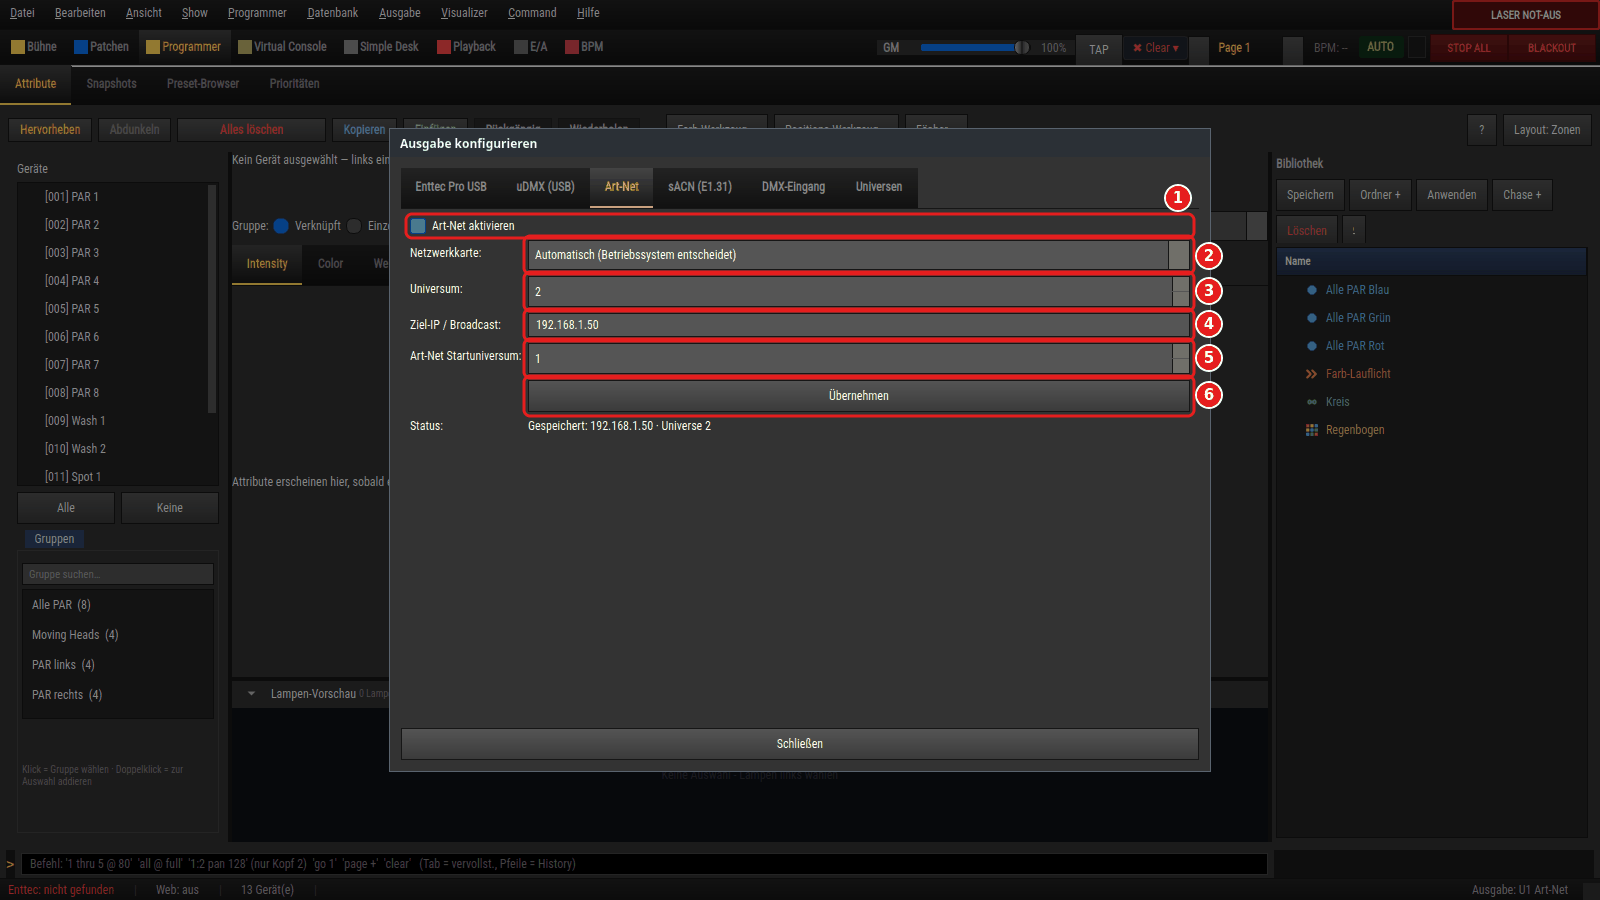
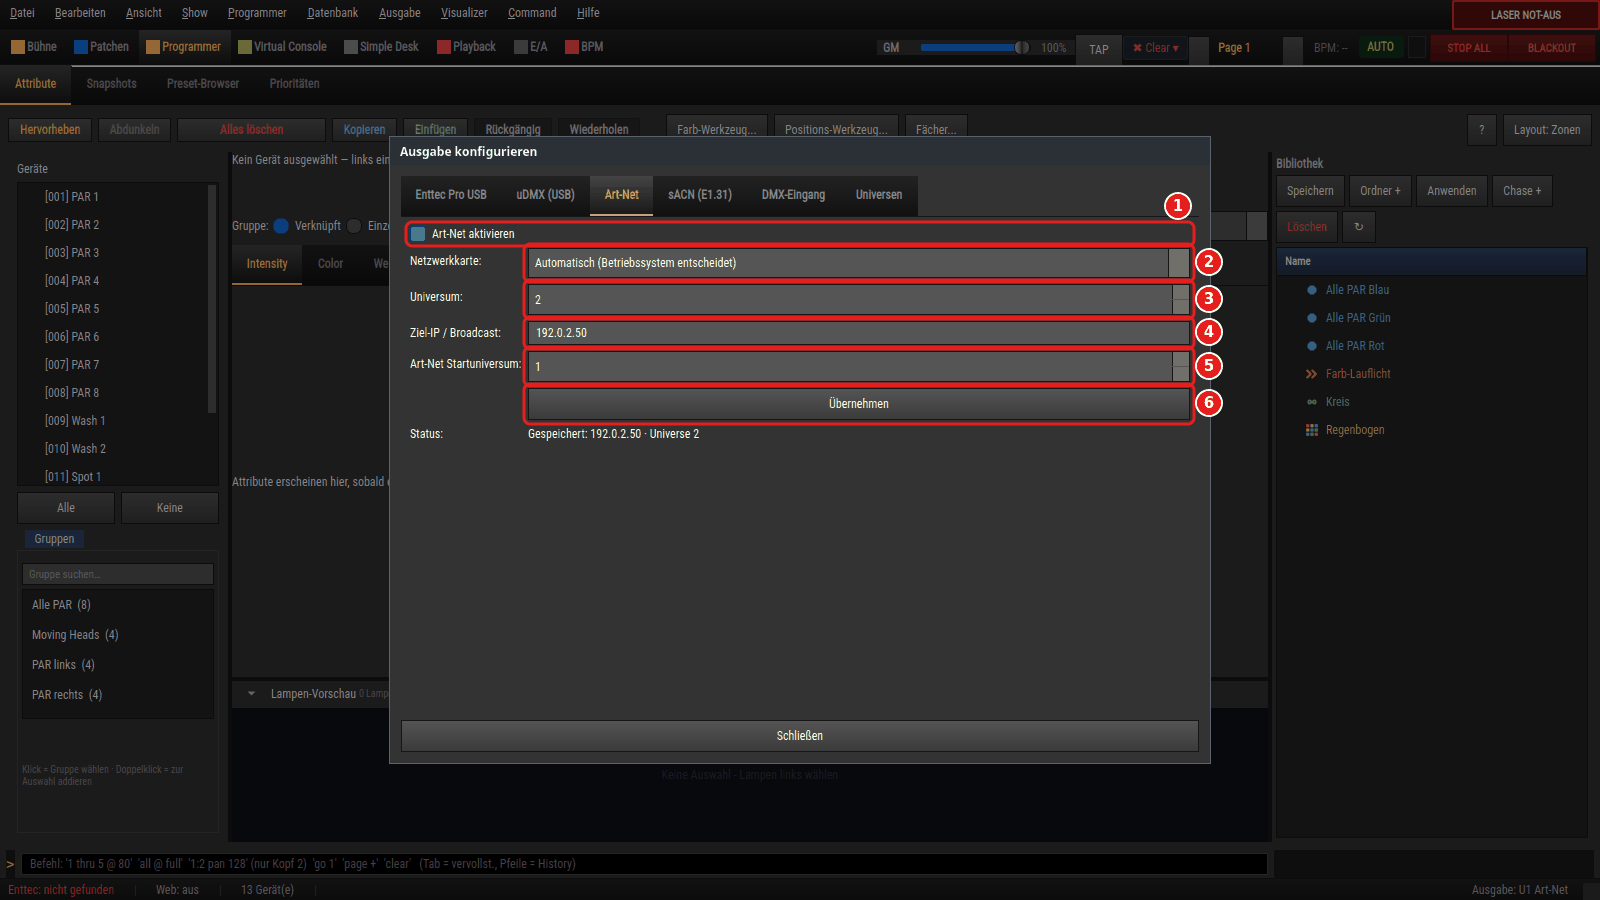
docs: Beispiel-Netzadressen aus dem Dokumentationsbereich, RFC 5737 (PRIV-07)
Anleitungen, Berichte und UI-Platzhalter nutzen 192.0.2.0/24 bzw.
198.51.100.0/24 statt Heimnetz-Adressen (192.168.178.x u. a.); die
Anleitungsbilder „Ausgabe einrichten" zeigen die neuen Beispiel-NICs.
Neuer Waechter tests/test_priv07_doku_beispieladressen.py (Doku-Gate),
Regel in COORDINATION.md; keine zusaetzliche Warnung in
pruefe_oeffentlich() (Begruendung im Testkopf).

diff --git a/tests/test_priv07_doku_beispieladressen.py b/tests/test_priv07_doku_beispieladressen.py
@@ -1,0 +1,109 @@
+"""PRIV-07: Beispiel-Netzadressen in der Doku kommen aus den
+Dokumentationsbereichen (RFC 5737), nicht aus einem Heimnetz.
+
+Befund (Verwalter-Sitzung, 25.10.2026): Anleitungen nannten Adressen wie
+``192.168.178.99`` — typischer Router-Bereich, einzelne stammten erkennbar aus
+dem echten Aufbau (ein Stabilitaetsbericht nannte Adresse, Gateway und DNS des
+Rechners). Das Repo ist oeffentlich.
+
+Regel (``COORDINATION.md``): Beispiele aus ``192.0.2.0/24`` bzw.
+``198.51.100.0/24`` (Broadcast ``192.0.2.255``) oder dem Art-Net-Bereich
+``2.x.x.x``. Dieser Waechter prueft ``docs/`` und die Anleitungs-Dateien im
+Repo-Wurzelordner auf private IPv4-Adressen (``192.168.x.y``, ``10.x.y.z``,
+``172.16–31.x.y``). Bewusst NICHT geprueft: ``BACKLOG.md``/``CHANGELOG.md``
+(Verlauf), Quelltext und Tests — dort sind private Bereiche teils Gegenstand
+(LAN-IP-Ermittlung, Erkennung privater Bereiche, Netzlogik).
+
+Waechter-Entscheidung ``tools/session_claim.py``/``pruefe_oeffentlich()``: KEINE
+zusaetzliche Warnung fuer ``192.168.178.x``. Die Funktion kennt nur Funde, die
+einen Text abweisen, und gilt seit PROC-25 nur noch fuer die wenigen Texte, die
+ins oeffentliche Repo gehen; eine Adresse ist dort fachlich zulaessig
+(``tests/test_session_claim.py`` laesst „Art-Net an 192.168.1.99 antwortet
+nicht“ ausdruecklich durch). Den Platz, an dem Adressen wirklich landen — die
+Doku — sichert dieser Waechter.
+"""
+from __future__ import annotations
+
+import pathlib
+import re
+import unittest
+
+ROOT = pathlib.Path(__file__).resolve().parents[1]
+
+PRIVAT = re.compile(
+    r"(?<![\d.])(?:192\.168\.\d{1,3}\.\d{1,3}"
+    r"|10\.\d{1,3}\.\d{1,3}\.\d{1,3}"
+    r"|172\.(?:1[6-9]|2\d|3[01])\.\d{1,3}\.\d{1,3})(?![\d])")
+
+#: Text-Dateien unter docs/, die geprueft werden.
+ENDUNGEN = {".md", ".txt", ".json", ".py", ".ps1", ".html", ".csv"}
+#: Anleitungs-/Regeldateien im Wurzelordner.
+WURZEL = ("README.md", "INSTALL.md", "COORDINATION.md", "AGENTS.md",
+          "CONTRIBUTING.md", "WORKFLOW.md")
+
+#: Ausdruecklich erlaubt: (Datei, Adresse) mit Grund.
+ERLAUBT = {
+    # Die Tabelle erklaert die Werks-Adressbereiche von Pulten/Art-Net-Geraeten
+    # (2.x.x.x und 10.x.x.x mit Maske 255.0.0.0) — der Bereich IST der Inhalt.
+    ("docs/anleitung_externe_pulte/ANLEITUNG_EXTERNE_PULTE.md", "10.0.0.10"),
+    ("docs/anleitung_externe_pulte/ANLEITUNG_EXTERNE_PULTE.md", "10.0.0.20"),
+}
+
+
+def funde_in(text: str) -> list[str]:
+    return [m.group(0) for m in PRIVAT.finditer(text)]
+
+
+def doku_dateien() -> list[pathlib.Path]:
+    dateien = [p for p in (ROOT / "docs").rglob("*")
+               if p.is_file() and p.suffix.lower() in ENDUNGEN]
+    dateien += [ROOT / n for n in WURZEL if (ROOT / n).is_file()]
+    return sorted(dateien)
+
+
+def alle_funde() -> set[tuple[str, str]]:
+    funde = set()
+    for p in doku_dateien():
+        text = p.read_text(encoding="utf-8", errors="replace")
+        rel = p.relative_to(ROOT).as_posix()
+        funde |= {(rel, a) for a in funde_in(text)}
+    return funde
+
+
+class GegenprobeTest(unittest.TestCase):
+
+    def test_private_adressen_schlagen_an(self):
+        text = ("Node `192.168.178.99`, Broadcast 192.168.1.255, "
+                "sACN → 10.0.0.5, Docker 172.17.0.1, Gateway 172.31.255.1")
+        self.assertEqual(funde_in(text), ["192.168.178.99", "192.168.1.255",
+                                          "10.0.0.5", "172.17.0.1", "172.31.255.1"])
+
+    def test_dokumentationsbereiche_und_andere_schlagen_nicht_an(self):
+        for t in ("192.0.2.50", "192.0.2.255", "198.51.100.20", "203.0.113.7",
+                  "2.0.0.10", "255.255.255.0", "172.15.0.1", "172.32.0.1",
+                  "110.0.0.1", "Version 10.2.3", "192.168.x.x", "192.168.1.x",
+                  "1.10.0.0.5"):
+            self.assertEqual(funde_in(t), [], t)
+
+
+class DokuTest(unittest.TestCase):
+
+    def test_es_wird_wirklich_etwas_geprueft(self):
+        namen = {p.relative_to(ROOT).as_posix() for p in doku_dateien()}
+        for n in ("docs/anleitung_ausgabe_einrichten/ANLEITUNG.md",
+                  "docs/anleitung_enttec_artnet/ANLEITUNG_ENTTEC_ARTNET.md",
+                  "README.md", "INSTALL.md"):
+            self.assertIn(n, namen)
+        self.assertGreater(len(namen), 100)
+
+    def test_keine_heimnetz_adressen_in_der_doku(self):
+        rest = sorted(alle_funde() - ERLAUBT)
+        self.assertEqual(rest, [], "Beispiele aus 192.0.2.0/24 bzw. "
+                                   "198.51.100.0/24 nehmen (RFC 5737)")
+
+    def test_ausnahmen_sind_noch_noetig(self):
+        self.assertEqual(ERLAUBT - alle_funde(), set())
+
+
+if __name__ == "__main__":
+    unittest.main()

diff --git a/tests/test_out50_dialog_laedt_gespeichertes.py b/tests/test_out50_dialog_laedt_gespeichertes.py
@@ -208,13 +208,13 @@ class GespeicherteAusgabeZeileTest(_MitKonfig):
 # ══════════════════════════════════════════════════════════════════════════════
 
 class ArtNetTabWirdVorbelegtTest(_MitKonfig):
-    zeilen = [{"num": 4, "name": "Bar", "output": "ArtNet", "patch": "192.168.1.99"}]
+    zeilen = [{"num": 4, "name": "Bar", "output": "ArtNet", "patch": "192.0.2.99"}]
 
     def test_universum_ip_und_haken(self):
         dlg = self._dialog()
         self.assertEqual(dlg._spin_artnet_univ.value(), 4,
                          "sonst legt „Uebernehmen“ eine Phantom-Zeile auf U1 an")
-        self.assertEqual(dlg._edit_artnet_ip.text(), "192.168.1.99")
+        self.assertEqual(dlg._edit_artnet_ip.text(), "192.0.2.99")
         self.assertTrue(dlg._check_artnet.isChecked())
 
     def test_das_belegte_universum_ist_abwaehlbar(self):
@@ -322,7 +322,7 @@ class RoundTripTest(_MitKonfig):
 
     zeilen = [
         {"num": 3, "name": "Balken", "output": "Enttec", "patch": "/dev/ttyUSB1"},
-        {"num": 4, "name": "Bar", "output": "ArtNet", "patch": "192.168.1.99"},
+        {"num": 4, "name": "Bar", "output": "ArtNet", "patch": "192.0.2.99"},
         {"num": 6, "name": "Dach", "output": "sACN", "patch": "10.0.0.5"},
     ]
     ports = [_FakePort("/dev/ttyUSB0"), _FakePort("/dev/ttyUSB1")]
@@ -336,7 +336,7 @@ class RoundTripTest(_MitKonfig):
     def test_artnet_uebernehmen_ohne_aenderung_legt_keine_phantom_zeile_an(self):
         dlg = self._dialog()
         dlg._apply_artnet()
-        self.assertEqual(self._zeile(4)["patch"], "192.168.1.99")
+        self.assertEqual(self._zeile(4)["patch"], "192.0.2.99")
         self.assertEqual(self._zeile(4)["output"], "ArtNet")
         # Vor dem Fix entstand hier eine zweite Art-Net-Zeile auf Universum 1.
         self.assertIsNone(self._zeile(1),
@@ -380,7 +380,7 @@ class RoundTripTest(_MitKonfig):
         self.assertEqual(zweiter._spin_enttec_univ.value(), 3)
         self.assertEqual(zweiter._combo_port.currentData(), "/dev/ttyUSB1")
         self.assertEqual(zweiter._spin_artnet_univ.value(), 4)
-        self.assertEqual(zweiter._edit_artnet_ip.text(), "192.168.1.99")
+        self.assertEqual(zweiter._edit_artnet_ip.text(), "192.0.2.99")
         self.assertEqual(zweiter._spin_sacn_univ.value(), 6)
         self.assertEqual(zweiter._edit_sacn_ip.text(), "10.0.0.5")
 

diff --git a/tools/anleitungsbilder/szenen_ausgabe_einrichten.py b/tools/anleitungsbilder/szenen_ausgabe_einrichten.py
@@ -12,7 +12,7 @@ Datenschutz — der Dialog zeigt sonst Dinge DIESES Rechners:
 * Die Portliste (``serial.tools.list_ports.comports``) und die Liste der
   Netzwerkkarten (``output_config._list_ifaces``) werden NUR waehrend des
   Dialog-Aufbaus durch feste Beispiele ersetzt (``/dev/ttyUSB0``,
-  ``192.168.1.x``) — echte Portnamen, Seriennummern oder IP-Adressen landen so
+  ``192.0.2.x``, RFC 5737) — echte Portnamen, Seriennummern oder IP-Adressen landen so
   nie im Bild.
 * Die Beispiel-Konfiguration steht nur in der ``universes.json`` der Sandbox
   und wird danach wieder auf den Stand davor zurueckgesetzt. Angewendet wird
@@ -39,16 +39,16 @@ from anleitungsbilder.szenen_erste_schritte import (
 ZIEL = "docs/anleitung_ausgabe_einrichten/img"
 
 # Beispiel-Konfiguration: U1 ueber einen Enttec an USB, U2 ueber Art-Net an
-# einen Node im Heimnetz. Nur Beispieladressen.
+# einen Node im Lichtnetz. Nur Beispieladressen (RFC 5737, PRIV-07).
 BEISPIEL_PORT = "/dev/ttyUSB0"
-BEISPIEL_NODE = "192.168.1.50"
+BEISPIEL_NODE = "192.0.2.50"
 BEISPIEL_UNIVERSEN = [
     {"num": 1, "name": "Bühne", "output": "Enttec", "patch": BEISPIEL_PORT},
     {"num": 2, "name": "Traverse", "output": "ArtNet", "patch": BEISPIEL_NODE},
 ]
 BEISPIEL_NICS = [
-    {"name": "eth0", "ip": "192.168.1.10", "broadcast": "192.168.1.255"},
-    {"name": "wlan0", "ip": "192.168.178.20", "broadcast": "192.168.178.255"},
+    {"name": "eth0", "ip": "192.0.2.10", "broadcast": "192.0.2.255"},
+    {"name": "wlan0", "ip": "198.51.100.20", "broadcast": "198.51.100.255"},
 ]
 
 

diff --git a/tests/test_out72_typwechsel_und_laser_nachlauf.py b/tests/test_out72_typwechsel_und_laser_nachlauf.py
@@ -169,19 +169,19 @@ class NachfolgerAngesagtTest(_MitAttrappen):
         255.255.255.255. Das ist derselbe Knoten — kein Schlussbild."""
         from unittest import mock
         om = _manager()
-        alt = _ArtNet("192.168.178.255")                 # so fuehrt ihn der Sender
+        alt = _ArtNet("192.0.2.255")                 # so fuehrt ihn der Sender
         om._artnet_outputs[1] = alt
         with mock.patch("src.core.dmx.output_iface.artnet_broadcast_target",
-                        return_value="192.168.178.255"):
+                        return_value="192.0.2.255"):
             om.nachfolger_ansagen(1, "artnet", "255.255.255.255")
             om.remove_output(1)
         self.assertEqual(alt.bilder, [], "unveraendert uebernommen darf nicht blitzen")
         self.assertTrue(alt.zu)
         # Ein wirklich anderes Ziel endet weiter dunkel.
-        alt2 = _ArtNet("192.168.178.255")
+        alt2 = _ArtNet("192.0.2.255")
         om._artnet_outputs[1] = alt2
         with mock.patch("src.core.dmx.output_iface.artnet_broadcast_target",
-                        return_value="192.168.178.255"):
+                        return_value="192.0.2.255"):
             om.nachfolger_ansagen(1, "artnet", "10.0.0.5")
             om.remove_output(1)
         self.assertEqual(alt2.bilder, [(0, DUNKEL)])

diff --git a/src/core/dmx/output_iface.py b/src/core/dmx/output_iface.py
@@ -6,7 +6,7 @@ ALLEN Interfaces, Linux nur über die Route-NIC — auf einem Rig mit dem Lichtn
 einer 2./USB-Ethernet-NIC (≠ Default-Route) erreichen die Pakete unter Linux die
 Nodes evtl. nicht (reale Ausgabe verpufft).
 
-``LIGHTOS_OUTPUT_IFACE`` = IP der gewünschten Ausgangs-NIC (z. B. ``192.168.1.50``)
+``LIGHTOS_OUTPUT_IFACE`` = IP der gewünschten Ausgangs-NIC (z. B. ``192.0.2.50``)
 bindet die Sende-Sockets an dieses Interface. **Opt-in** — ohne die Env-Variable
 bleibt alles beim bisherigen OS-Routing (Windows unverändert). Alle Setzer sind
 best-effort: eine falsche/verschwundene IP wird geschluckt → Fallback auf OS-Routing.
@@ -87,7 +87,7 @@ def set_multicast_iface(sock) -> bool:
 #   (b) die GERICHTETE Broadcast-Adresse der gewaehlten NIC ableiten.
 #
 # ★ Die Produktentscheidung dahinter, bewusst SICHER geschnitten: der gerichtete
-# Broadcast (z. B. 192.168.1.255 statt 255.255.255.255) gilt **nur, wenn eine NIC
+# Broadcast (z. B. 192.0.2.255 statt 255.255.255.255) gilt **nur, wenn eine NIC
 # ausdruecklich gewaehlt wurde**. Ohne Auswahl bleibt alles beim bisherigen
 # Verhalten. Der Default global umzustellen waere die groessere Verbesserung —
 # und genau deshalb falsch: er wuerde bestehende, funktionierende Rigs still

diff --git a/tests/test_doc72_externe_pulte.py b/tests/test_doc72_externe_pulte.py
@@ -390,9 +390,10 @@ class Doc72ExternePulteTest(unittest.TestCase):
                 self.assertTrue(os.path.isfile(os.path.normpath(os.path.join(basis, b))))
 
     def test_nur_beispieladressen(self):
-        """Erlaubt: 2.x / 10.x / 192.168.1.x als Beispiele und die festen
-        Sonderadressen (Loopback, alle Schnittstellen, Broadcast, Maske)."""
-        erlaubt = re.compile(r"^(2\.0\.0\.\d+|10\.0\.0\.\d+|192\.168\.1\.\d+|"
+        """Erlaubt: 2.x / 10.x (Werks-Bereiche) / 192.0.2.x (RFC 5737, PRIV-07)
+        als Beispiele und die festen Sonderadressen (Loopback, alle
+        Schnittstellen, Broadcast, Maske)."""
+        erlaubt = re.compile(r"^(2\.0\.0\.\d+|10\.0\.0\.\d+|192\.0\.2\.\d+|"
                              r"127\.0\.0\.1|0\.0\.0\.0|255\.(255|0)\.(255|0)\.(255|0))$")
         for adresse in set(re.findall(r"\b\d{1,3}(?:\.\d{1,3}){3}\b", self.text)):
             with self.subTest(adresse):

diff --git a/tests/test_out75_dmx_monitor_eine_wahrheit.py b/tests/test_out75_dmx_monitor_eine_wahrheit.py
@@ -622,9 +622,9 @@ class RueckfrageTest(unittest.TestCase):
         den gerichteten Broadcast, der Dialog kennt 255.255.255.255."""
         from unittest import mock
         om = types.SimpleNamespace(ausgabe_status=lambda: [
-            {"universum": 1, "weg": "Art-Net", "ziel": "192.168.178.255"}])
+            {"universum": 1, "weg": "Art-Net", "ziel": "192.0.2.255"}])
         with mock.patch("src.core.dmx.output_iface.artnet_broadcast_target",
-                        return_value="192.168.178.255"):
+                        return_value="192.0.2.255"):
             self.assertEqual(oc._andere_ausgaben(om, 1, "Art-Net", "255.255.255.255"), [])
             # Ein anderes Ziel bleibt eine andere Ausgabe.
             self.assertEqual(len(oc._andere_ausgaben(om, 1, "Art-Net", "10.0.0.5")), 1)

diff --git a/src/ui/widgets/output_config.py b/src/ui/widgets/output_config.py
@@ -931,7 +931,7 @@ class OutputConfigDialog(QDialog):
             "Ueber welche Netzwerkkarte Art-Net und sACN hinausgehen.\n"
             "Automatisch = wie bisher ueber die Standardroute des Systems.\n"
             "Mit gewaehlter Karte geht Art-Net an deren gerichteten\n"
-            "Broadcast (z. B. 192.168.1.255) statt an 255.255.255.255 —\n"
+            "Broadcast (z. B. 192.0.2.255) statt an 255.255.255.255 —\n"
             "der wird von Routern nicht weitergereicht.\n"
             "Gilt fuer diesen Rechner, nicht fuer die Show. Neue Verbindungen\n"
             "nutzen die Karte sofort, bestehende ab dem naechsten Start.")

diff --git a/src/core/dmx/artnet.py b/src/core/dmx/artnet.py
@@ -25,7 +25,7 @@ class ArtNetSender:
     def __init__(self, target_ip: str = "255.255.255.255"):
         # NET-04: Steht als Ziel der LIMITED Broadcast (255.255.255.255) UND ist
         # eine Ausgangs-NIC gewaehlt, geht es an deren GERICHTETEN Broadcast
-        # (z. B. 192.168.178.255). Limited Broadcast wird von Routern nicht
+        # (z. B. 192.0.2.255). Limited Broadcast wird von Routern nicht
         # weitergereicht und unter Linux nur ueber die Default-Route gesendet —
         # auf einem Venue-PC mit Lichtnetz an der zweiten NIC verpufft er
         # lautlos. Ein ausdruecklich eingetragenes Unicast-/Broadcast-Ziel bleibt

diff --git a/src/ui/views/patch_view.py b/src/ui/views/patch_view.py
@@ -225,7 +225,7 @@ class PatchFixtureEditDialog(QDialog):
             form.addRow("Protokoll:", self._combo_protocol)
             self._edit_net_host = QLineEdit(
                 getattr(self._fixture, "net_host", "") or "")
-            self._edit_net_host.setPlaceholderText("z. B. 192.168.1.50")
+            self._edit_net_host.setPlaceholderText("z. B. 192.0.2.50")
             form.addRow("Netzwerk-Adresse:", self._edit_net_host)
             # NUR Enabled-Zustaende syncen — _on_protocol_changed() wuerde
             # _validate() rufen, aber _lbl_channels/_lbl_warn existieren an

diff --git a/tests/test_ui103_banner_unterreiter.py b/tests/test_ui103_banner_unterreiter.py
@@ -79,7 +79,7 @@ def _reiter_flaechen(tabs: QTabWidget, bezug) -> list:
 _BEDIENUNG = (QAbstractButton, QLineEdit, QComboBox, QAbstractSpinBox,
               QSlider)
 #: Gegenpruefung UI-103: der laengste realistische Stoerungstext.
-_STOER_LANG = ("Ausgabe gestört: Art-Net Universum 1 → 192.168.178.50 — "
+_STOER_LANG = ("Ausgabe gestört: Art-Net Universum 1 → 192.0.2.50 — "
                "Zeitüberschreitung beim Senden  (+3 weitere)")
 
 

diff --git a/src/web/app.py b/src/web/app.py
@@ -106,7 +106,7 @@ def get_lan_ip() -> str:
 
 
 def remote_url(port: int = 5000) -> str:
-    """Vollstaendige LAN-URL fuer das Web-Remote, z.B. ``http://192.168.1.5:5000``."""
+    """Vollstaendige LAN-URL fuer das Web-Remote, z.B. ``http://192.0.2.5:5000``."""
     return f"http://{get_lan_ip()}:{port}"
 
 
